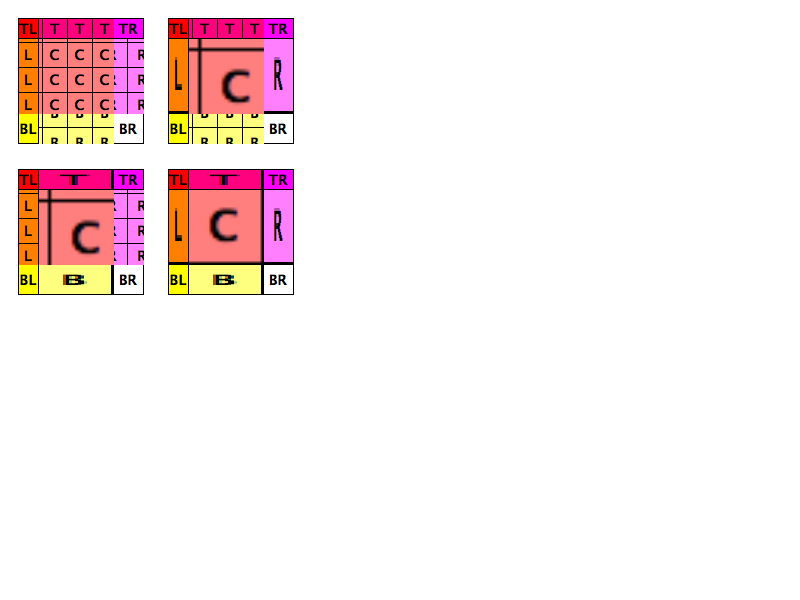
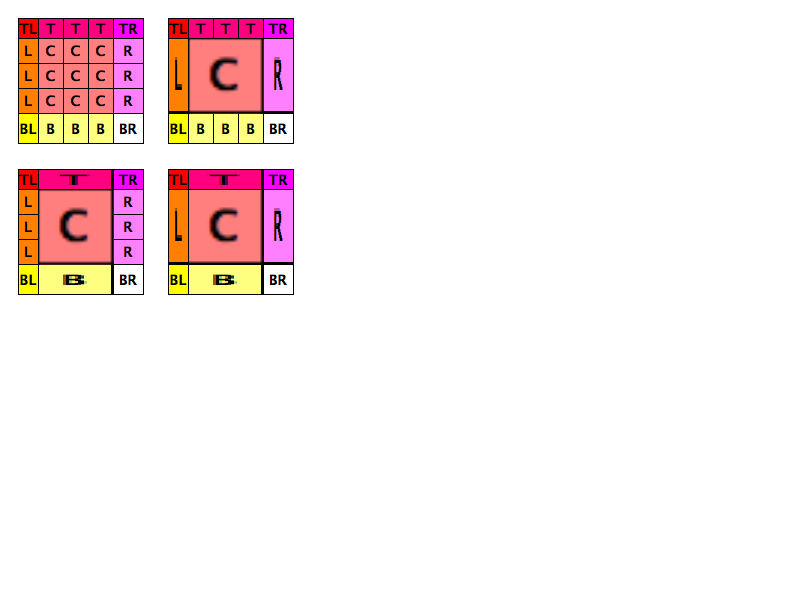
Fix incorrect pattern offsets, and rebaseline associated test results.
This now performs a similar origin translation as ImageCG.cpp, which seems to work, though it also seems to imply a relationship between the src and dest rects which I haven't found explicitly documented or enforced anywhere.

Review URL: http://codereview.chromium.org/13375

git-svn-id: svn://svn.chromium.org/chrome/trunk/src@7107 0039d316-1c4b-4281-b951-d872f2087c98

Changed region(s): [[0.0312, 0.03, 0.1875, 0.24], [0.2188, 0.03, 0.3438, 0.24], [0.0312, 0.3, 0.1875, 0.45]]

diff --git a/webkit/port/platform/graphics/skia/ImageSkia.cpp b/webkit/port/platform/graphics/skia/ImageSkia.cpp
@@ -33,6 +33,7 @@
 #include "BitmapImage.h"
 #include "BitmapImageSingleFrameSkia.h"
 #include "ChromiumBridge.h"
+#include "FloatConversion.h"
 #include "FloatRect.h"
 #include "GraphicsContext.h"
 #include "Logging.h"
@@ -371,8 +372,12 @@ void Image::drawPattern(GraphicsContext* context,
     // origin of the destination rect, which is what WebKit expects. Skia uses
     // the coordinate system origin as the base for the patter. If WebKit wants
     // a shifted image, it will shift it from there using the patternTransform.
-    matrix.postTranslate(SkFloatToScalar(phase.x()),
-                         SkFloatToScalar(phase.y()));
+    float adjustedX = phase.x() + floatSrcRect.x() *
+                      narrowPrecisionToFloat(patternTransform.a());
+    float adjustedY = phase.y() + floatSrcRect.y() *
+                      narrowPrecisionToFloat(patternTransform.d());
+    matrix.postTranslate(SkFloatToScalar(adjustedX),
+                         SkFloatToScalar(adjustedY));
     shader->setLocalMatrix(matrix);
 
     SkPaint paint;
